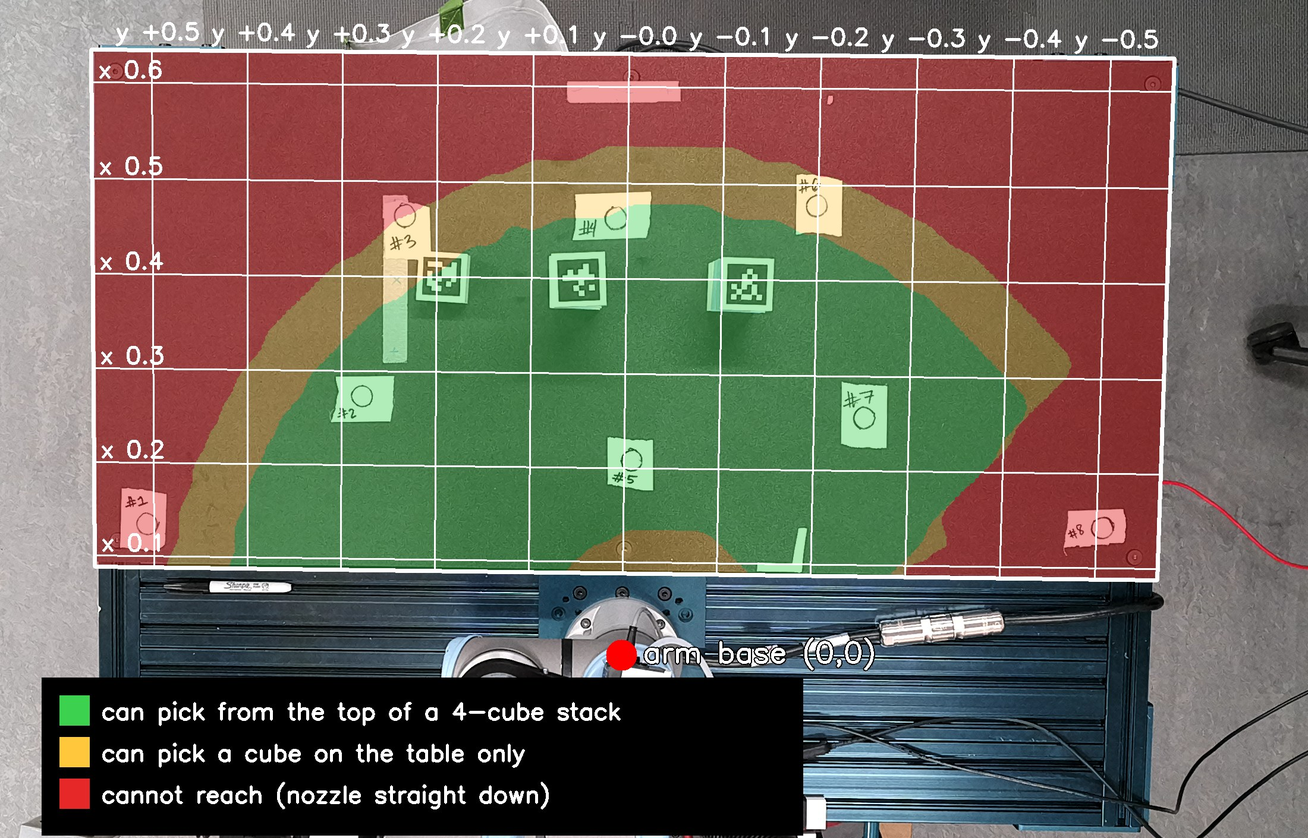
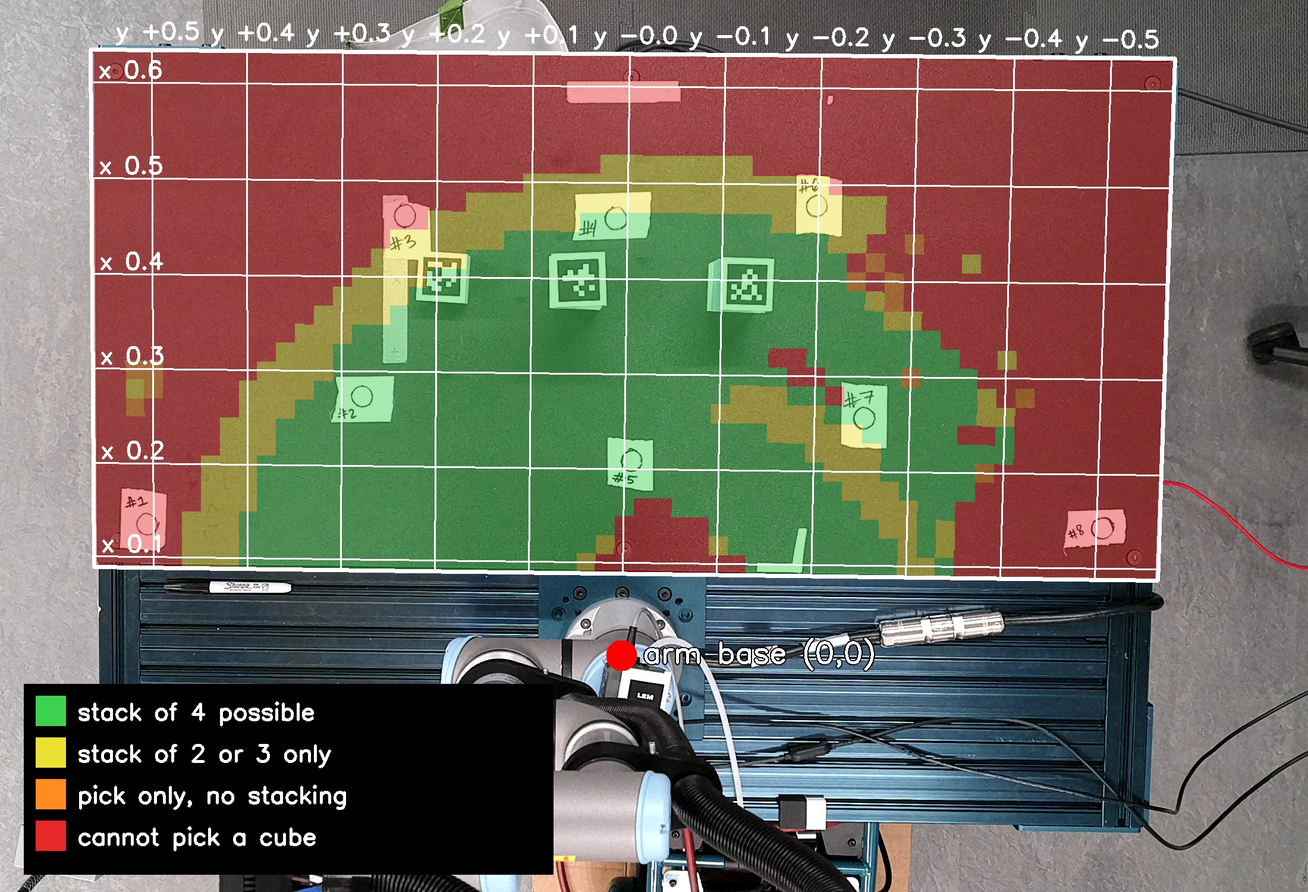
Redraw the arm reach map with 50 mm cubes and by stack height

diff --git a/docs/arm_reach/README.md b/docs/arm_reach/README.md
@@ -2,43 +2,32 @@
 
 ![Arm reach on the table](arm_reach_on_table.jpg)
 
-The picture is an overhead 4K still with the reach drawn on the table plane. The grid is every 10 cm in `base_link`: x is forward from the arm base and y is to the arm's left (left of the picture).
+The picture is an overhead 4K still with the reach drawn on the table plane. The grid is every 10 cm in `base_link`: x is forward from the arm base and y is to the arm's left (left of the picture). Cubes are 50 mm (`workcell.py`; 39.2 mm is the tag's black square), and the table top is at z = -0.005 m.
 
-| Colour | Meaning |
-| --- | --- |
-| Green | The arm can pick a cube whose tag is on top of a 4-cube stack (tag z about 0.150 m). |
-| Amber | The arm can pick a cube on the table (tag z about 0.033 m), but not from the top of a tall stack. |
-| Red | The arm cannot reach, with the nozzle straight down. |
-
-## Limits on the table (x from 0.09 to 0.63 m, y within +-0.565 m)
-
-| | Cube on the table | Top of a 4-cube stack |
+| Colour | Share of the table | Meaning |
 | --- | --- | --- |
-| Furthest forward, y = 0 | x = 0.53 m | x = 0.47 m |
-| Furthest forward, y = +0.2 | 0.47 m | 0.39 m |
-| Furthest forward, y = -0.2 | 0.50 m | 0.44 m |
-| Furthest left (+y), x = 0.25 | y = +0.42 m | y = +0.34 m |
-| Furthest right (-y), x = 0.25 | y = -0.42 m | y = -0.42 m |
-| Nearest to the base, y = 0 | x = 0.14 m | x = 0.14 m |
+| Green | 34% | A stack of 4 cubes can be built here: cubes can be picked up from here, and a cube can be placed on top of a 1-, 2- and 3-cube stack here. |
+| Yellow | 11% | A stack of 2 or 3 cubes can be built here, but not 4. |
+| Orange | 1% | A cube can be picked up here, but nothing can be stacked on it. |
+| Red | 54% | A cube here cannot be picked up. |
 
-- Under half the table is reachable: 52% for a cube on the table, 39% for the top of a 4-stack.
-- Nothing at x = 0.55 m or further, and nothing beyond about |y| 0.45 m.
-- The far third of the table (x above 0.5 m) and both far side strips can't be used.
-- Cubes should sit roughly within x 0.15 to 0.45 m and y -0.3 to +0.3 m. The tall stack is safest at x 0.15 to 0.35 m.
-- A strip around the base (about 0.14 m in front of it at y = 0) is also unreachable.
-- Reach is asymmetric: the arm reaches further left (+y) near the base and further forward on the right, because the nozzle yaw is fixed and wrist 3 is limited to -130..+140 degrees.
-- The calibration marks #1 (y +0.51) and #8 (y -0.51) are outside the green area. They were touched with a free tool orientation, not with the nozzle straight down.
+## What it means for stacking
+
+- **The usable area is a ring around the base.** At y = 0 a cube on the table can be picked from x = 0.16 to 0.52 m. A stack of 4 can be built from x = 0.16 to 0.46 m.
+- **Sides:** at y = +0.3 a cube can be picked from x = 0.10 to 0.38 m and a 4-stack built from x = 0.10 to 0.32 m. At y = -0.3 the ranges are x = 0.10 to 0.44 m (pick) and 0.18 to 0.34 m (4-stack). Nothing beyond about |y| 0.45 m is reachable.
+- **Taller stacks shrink the area.** The share of the table where a stack of N cubes can be built is about 46% for 1, 45% for 2, 39% for 3, 34% for 4, 29% for 5, 20% for 6 and 10% for 7.
+- **Not reachable at all:** the far third of the table (x above about 0.52 m), both far side strips, and a patch right in front of the base (x below about 0.16 m near y = 0).
+- **Practical rule:** keep cubes within roughly x 0.18 to 0.45 m and y -0.3 to +0.3 m, and build tall stacks near the middle of that.
 
 ## How it was computed
 
-- **Arm:** the URDF chain from `base_link` to `vacuum_tip_link`, with the kinematic parameters in `ur_config.yaml` and the joint limits in `colman_moveit_config/config/joint_limits.yaml` as on `main` after #44.
-- **Pose:** a pick is the nozzle straight down (`EE_DOWN`, quaternion (1, 0, 0, 0)) at the tag z minus 0.01 m. The approach is 0.10 m above the tag, on the same IK solution. The table counts as reachable at a point only if both poses are found. Each point was tried from 24 starting joint configurations with a numerical 6D solver (position within 1 mm, orientation within 0.01 rad).
-- **Heights:** the table plane is at z = -0.0066 m, from the touch-off points. A cube is 39.2 mm.
-- **Projection:** the overhead pose in `camera_pose_calibration/results/overhead_camera_pose_in_base_link.yaml`, with the 4K intrinsics from `overhead_capture.npz`. Re-projecting the eight touched points lands within about 2 px of their marked centres.
+- **Arm:** the URDF chain from `base_link` to `vacuum_tip_link` with the factory kinematics in `ur_config.yaml` and the joint limits in `colman_moveit_config/config/joint_limits.yaml` as on `main` after #44.
+- **Poses:** the nozzle points straight down (`EE_DOWN`, quaternion (1, 0, 0, 0)). A pick is feasible if the grab pose (tag z - 0.01 m) and the approach pose (tag z + 0.10 m) both have an IK solution on the same branch. A place onto a stack is feasible if the drop pose (top tag z + 0.05 m) and the approach 0.05 m above it do. A cube at level n has its tag at z = -0.005 + 0.05 n. A numerical 6D solver was run on a 2 cm grid from 20 starting joint configurations per point (position within 1 mm, orientation within 0.01 rad). The grid and the isolated speckles near the edge come from this solver and the 2 cm cell size.
+- **Projection:** the overhead pose in `camera_pose_calibration/results/overhead_camera_pose_in_base_link.yaml` with the 4K intrinsics from `overhead_capture.npz`.
 - **Still:** `colman_calibration_archive/overhead_4k_capture/overhead_rgb.png`.
 
 ## What this does not include
 
-- It is kinematics only. MoveIt collision checks, the table and the held cube's planning box, the wrist camera's view and motion-planner failures are not modelled, so the real usable area can be somewhat smaller. It does not include the place poses (0.05 m approach), only the pick poses.
-- The solver is not TRAC-IK, so points near the green edge may flip either way. Treat the outline as +-1 to 2 cm.
-- Only these two heights were tested. A stack of 2 or 3 cubes falls between the green and amber areas.
+- It is kinematics only. MoveIt collision checks, the table and the held cube's planning box, the wrist camera's view and motion-planner failures are not modelled, so the real usable area can be smaller.
+- The solver is not TRAC-IK, so points near an edge may flip either way. Treat the outlines as +-2 to 3 cm.
+- This replaces an earlier version of this map that wrongly used 39.2 mm cubes.
